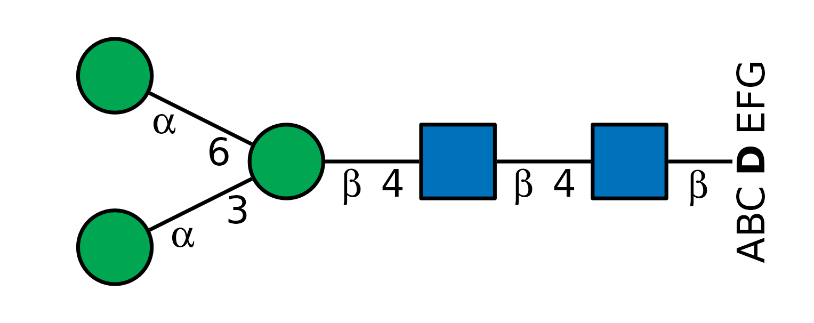
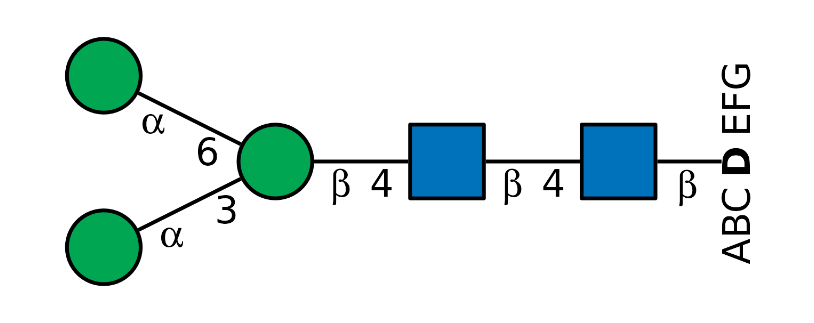
Deploying to gh-pages from @ glycoverse/glydraw@7196dd94ad20c2b923ccb759c5254a012ed687f3 🚀

Changed region(s): [[0.0614, 0.0929, 0.5221, 0.8978], [0.7985, 0.1858, 0.9521, 0.805], [0.5835, 0.3715, 0.7371, 0.6502]]

diff --git a/dev/reference/style_glydraw.html b/dev/reference/style_glydraw.html
@@ -59,6 +59,7 @@ Supply a returned style with <code>style =</code> to reuse its visual specificat
 <span>  fuc_orient <span class="op">=</span> <span class="st">"flex"</span>,</span>
 <span>  red_end <span class="op">=</span> <span class="st">""</span>,</span>
 <span>  red_end_length <span class="op">=</span> <span class="fl">0.6</span>,</span>
+<span>  red_end_size <span class="op">=</span> <span class="fl">6</span>,</span>
 <span>  edge_linewidth <span class="op">=</span> <span class="fl">0.8</span>,</span>
 <span>  node_linewidth <span class="op">=</span> <span class="fl">0.8</span>,</span>
 <span>  node_size <span class="op">=</span> <span class="fl">1</span>,</span>
@@ -70,6 +71,7 @@ Supply a returned style with <code>style =</code> to reuse its visual specificat
 <span>  fuc_orient <span class="op">=</span> <span class="st">"flex"</span>,</span>
 <span>  red_end <span class="op">=</span> <span class="st">"~"</span>,</span>
 <span>  red_end_length <span class="op">=</span> <span class="fl">1</span>,</span>
+<span>  red_end_size <span class="op">=</span> <span class="fl">6</span>,</span>
 <span>  edge_linewidth <span class="op">=</span> <span class="fl">0.8</span>,</span>
 <span>  node_linewidth <span class="op">=</span> <span class="fl">0.8</span>,</span>
 <span>  node_size <span class="op">=</span> <span class="fl">1</span>,</span>
@@ -81,6 +83,7 @@ Supply a returned style with <code>style =</code> to reuse its visual specificat
 <span>  fuc_orient <span class="op">=</span> <span class="st">"up"</span>,</span>
 <span>  red_end <span class="op">=</span> <span class="st">""</span>,</span>
 <span>  red_end_length <span class="op">=</span> <span class="fl">1</span>,</span>
+<span>  red_end_size <span class="op">=</span> <span class="fl">6</span>,</span>
 <span>  edge_linewidth <span class="op">=</span> <span class="fl">1.5</span>,</span>
 <span>  node_linewidth <span class="op">=</span> <span class="fl">0.8</span>,</span>
 <span>  node_size <span class="op">=</span> <span class="fl">1.15</span>,</span>
@@ -92,6 +95,7 @@ Supply a returned style with <code>style =</code> to reuse its visual specificat
 <span>  fuc_orient <span class="op">=</span> <span class="st">"flex"</span>,</span>
 <span>  red_end <span class="op">=</span> <span class="st">"~"</span>,</span>
 <span>  red_end_length <span class="op">=</span> <span class="fl">1</span>,</span>
+<span>  red_end_size <span class="op">=</span> <span class="fl">6</span>,</span>
 <span>  edge_linewidth <span class="op">=</span> <span class="fl">0.8</span>,</span>
 <span>  node_linewidth <span class="op">=</span> <span class="fl">0.8</span>,</span>
 <span>  node_size <span class="op">=</span> <span class="fl">1</span>,</span>
@@ -120,6 +124,11 @@ string for custom text, or tag one amino-acid site as
 <dd><p>Length of the reducing-end line in plot coordinate
 units. Set to <code>0</code> to omit the line and any <code>red_end</code> wave or custom text
 while retaining the axis-aligned core anomer annotation.</p></dd>
+
+
+<dt id="arg-red-end-size">red_end_size<a class="anchor" aria-label="anchor" href="#arg-red-end-size"></a></dt>
+<dd><p>Size of custom text passed to <code>red_end</code>. The <code>"~"</code> wave
+is not affected.</p></dd>
 
 
 <dt id="arg-edge-linewidth">edge_linewidth<a class="anchor" aria-label="anchor" href="#arg-edge-linewidth"></a></dt>

diff --git a/dev/news/index.html b/dev/news/index.html
@@ -55,6 +55,7 @@
 <li><p><code>orient</code> now accepts <code>"left"</code>, <code>"right"</code>, <code>"up"</code>, and <code>"down"</code> to draw glycans in any direction.</p></li>
 <li><p><code>red_end</code> now accepts amino-acid sequences with one tagged glycosite, such as <code>"ABC&lt;site&gt;D&lt;/site&gt;EFG"</code>. The site is bold and anchored to the reducing end, and the sequence rotates with the glycan orientation. (<a href="https://github.com/glycoverse/glydraw/issues/78" class="external-link">#78</a>, <a href="https://github.com/glycoverse/glydraw/issues/82" class="external-link">#82</a>)</p></li>
 <li><p>New <code>red_end_length</code> style option controls the length of the reducing-end line; at <code>0</code>, the line and all <code>red_end</code> decorations are omitted while the axis-aligned core anomer annotation remains. (<a href="https://github.com/glycoverse/glydraw/issues/80" class="external-link">#80</a>)</p></li>
+<li><p>New <code>red_end_size</code> style option controls the size of custom <code>red_end</code> text without changing the <code>"~"</code> wave. (<a href="https://github.com/glycoverse/glydraw/issues/83" class="external-link">#83</a>)</p></li>
 <li><p><code><a href="../reference/style_glydraw.html">style_glydraw()</a></code> replaces <code>glydraw_style()</code> as the single reusable interface for tuning cartoon appearance; <code>show_linkage</code> and <code>orient</code> are explicit drawing controls instead of style fields, and explicit <code>red_end = NULL</code> inherits the style value. New <code><a href="../reference/style_glydraw.html">style_glygen()</a></code>, <code><a href="../reference/style_glydraw.html">style_snfg()</a></code>, and <code><a href="../reference/style_glydraw.html">style_glycoworkbench()</a></code> provide reusable presets for common glycan-drawing conventions. (<a href="https://github.com/glycoverse/glydraw/issues/73" class="external-link">#73</a>, <a href="https://github.com/glycoverse/glydraw/issues/79" class="external-link">#79</a>)</p></li>
 </ul></div>
 <div class="section level3">

diff --git a/dev/articles/glydraw.html b/dev/articles/glydraw.html
@@ -240,7 +240,7 @@ object.</p>
 <span></span>
 <span><span class="fu"><a href="../reference/save_cartoon.html">save_cartoon</a></span><span class="op">(</span><span class="va">cartoon</span>, <span class="va">outfile</span>, scale <span class="op">=</span> <span class="fl">2</span><span class="op">)</span></span>
 <span><span class="va">outfile</span></span>
-<span><span class="co">#&gt; [1] "/tmp/Rtmp95KsU3/n-core.png"</span></span></code></pre></div>
+<span><span class="co">#&gt; [1] "/tmp/Rtmp6R2CCf/n-core.png"</span></span></code></pre></div>
 <p><code>glydraw</code> does not expose separate <code>width</code> and
 <code>height</code> controls because each cartoon has a natural size
 calculated from its glycan structure. <code>scale</code> preserves the

diff --git a/dev/reference/style_glydraw.md b/dev/reference/style_glydraw.md
@@ -14,6 +14,7 @@ style_glydraw(
   fuc_orient = "flex",
   red_end = "",
   red_end_length = 0.6,
+  red_end_size = 6,
   edge_linewidth = 0.8,
   node_linewidth = 0.8,
   node_size = 1,
@@ -25,6 +26,7 @@ style_glygen(
   fuc_orient = "flex",
   red_end = "~",
   red_end_length = 1,
+  red_end_size = 6,
   edge_linewidth = 0.8,
   node_linewidth = 0.8,
   node_size = 1,
@@ -36,6 +38,7 @@ style_snfg(
   fuc_orient = "up",
   red_end = "",
   red_end_length = 1,
+  red_end_size = 6,
   edge_linewidth = 1.5,
   node_linewidth = 0.8,
   node_size = 1.15,
@@ -47,6 +50,7 @@ style_glycoworkbench(
   fuc_orient = "flex",
   red_end = "~",
   red_end_length = 1,
+  red_end_size = 6,
   edge_linewidth = 0.8,
   node_linewidth = 0.8,
   node_size = 1,
@@ -74,6 +78,11 @@ style_glycoworkbench(
   Length of the reducing-end line in plot coordinate units. Set to `0`
   to omit the line and any `red_end` wave or custom text while retaining
   the axis-aligned core anomer annotation.
+
+- red_end_size:
+
+  Size of custom text passed to `red_end`. The `"~"` wave is not
+  affected.
 
 - edge_linewidth:
 

diff --git a/dev/news/index.md b/dev/news/index.md
@@ -106,6 +106,10 @@
   omitted while the axis-aligned core anomer annotation remains.
   ([\#80](https://github.com/glycoverse/glydraw/issues/80))
 
+- New `red_end_size` style option controls the size of custom `red_end`
+  text without changing the `"~"` wave.
+  ([\#83](https://github.com/glycoverse/glydraw/issues/83))
+
 - [`style_glydraw()`](https://glycoverse.github.io/glydraw/dev/reference/style_glydraw.md)
   replaces `glydraw_style()` as the single reusable interface for tuning
   cartoon appearance; `show_linkage` and `orient` are explicit drawing

diff --git a/dev/articles/glydraw.md b/dev/articles/glydraw.md
@@ -221,7 +221,7 @@ outfile <- file.path(tempdir(), "n-core.png")
 
 save_cartoon(cartoon, outfile, scale = 2)
 outfile
-#> [1] "/tmp/Rtmp95KsU3/n-core.png"
+#> [1] "/tmp/Rtmp6R2CCf/n-core.png"
 ```
 
 `glydraw` does not expose separate `width` and `height` controls because
